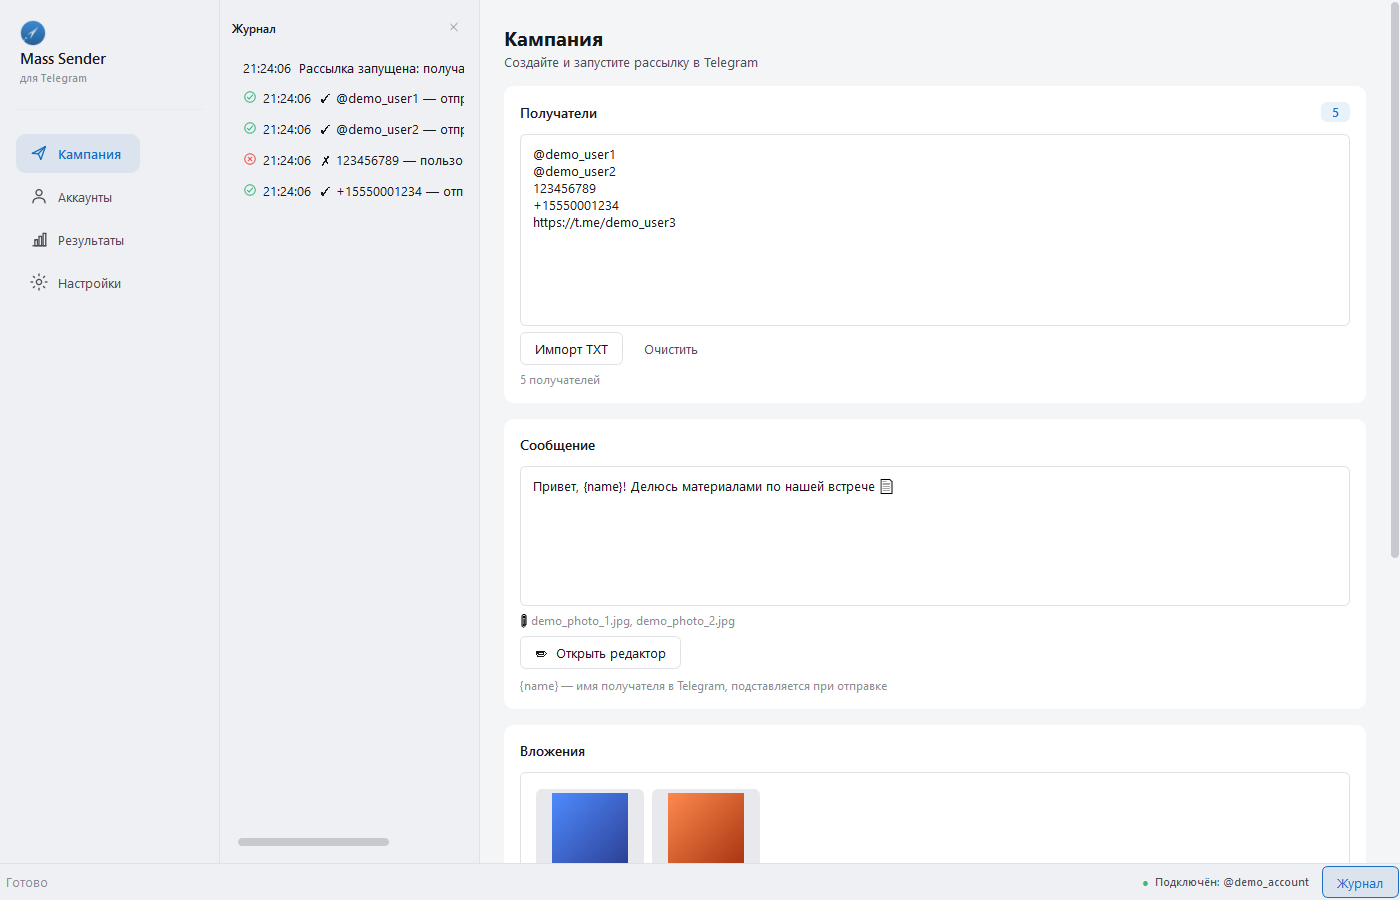
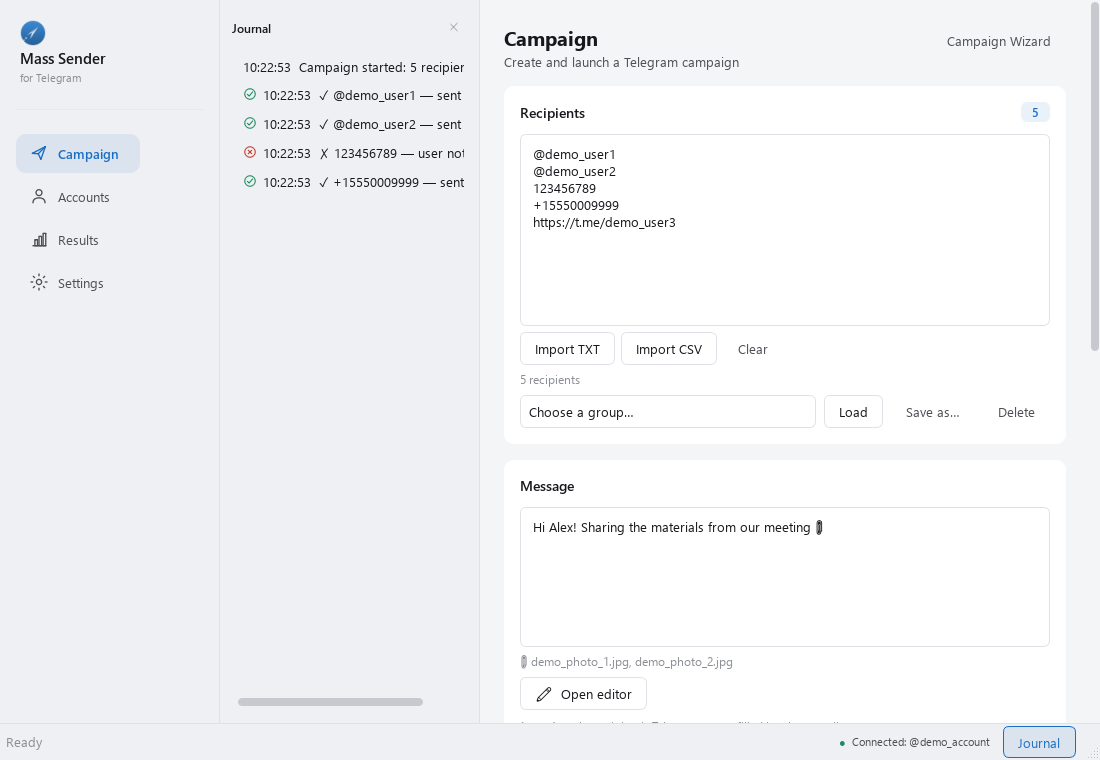
Rebuild portfolio screenshots and complete ROADMAP audit
All 6 docs/images/ screenshots were stale (dated before v1.8/v2.0's UI
changes: no rename button, no phone display, no Demo Mode, no language
selector) and in Russian despite English being the README's primary
language. Regenerated against the current UI, in English, using only
synthetic data (fake accounts/recipients/messages, generated
placeholder image attachments) -- never a real account or network
connection. Added a new demo-mode.png showcasing the feature added
this session. Each screenshot was individually reviewed for personal
data before committing.

Found and corrected a real methodology bug in the process: an earlier
verification pass (during Demo Mode's own work) had flagged what looked
like a genuine pre-existing rendering bug in the Accounts page's
"+ Add account" button, and a git-stash check against unmodified main
seemed to confirm it. Root-caused further while generating these
screenshots: it was an artifact of the verification script reusing one
asyncio event loop across multiple run_until_complete() calls, letting
tasks MainWindow.__init__/_enter_demo_mode() independently schedule via
their own asyncio.ensure_future() execute interleaved with the script's
own later calls -- something a real, single, persistent qasync loop
never does. Switching the script to one isolated event loop per call
(asyncio.run(), matching real app behavior) made the glitch disappear
completely, at the same settings that reproduced it moments before. The
[…]

diff --git a/ROADMAP.md b/ROADMAP.md
@@ -69,8 +69,10 @@ platform.
       languages) plus `tests/test_main_window_ux.py` (live language switch
       actually changes already-built widget text, persists across reload,
       and reset-settings doesn't silently flip it)
-- [ ] Create English portfolio screenshots — separate README/portfolio
-      task, not yet done
+- [x] Create English portfolio screenshots — all 6 of `docs/images/`'s
+      screenshots regenerated against the current UI, in English, with
+      only synthetic data (no real accounts/recipients/personal info);
+      see the release-candidate documentation stage for the full account
 
 ## Universal Attachments
 
@@ -947,19 +949,50 @@ previously-untested module).
 
 # Cross-cutting Engineering Goals
 
-- [ ] Maintain modular architecture
-- [ ] Keep UI independent from Telegram transport logic
-- [ ] Keep attachment abstraction generic
-- [ ] Preserve async/qasync architecture
-- [ ] Preserve UTF-16 Telegram entity correctness
-- [ ] Preserve Windows DPAPI credential protection
-- [ ] Preserve safe FloodWait handling
-- [ ] Preserve graceful shutdown
-- [ ] Preserve partial-send protection
-- [ ] Maintain strong regression test coverage
-- [ ] Keep application history intentionally limited
-- [ ] Avoid unnecessary database persistence
-- [ ] Avoid collecting sensitive user data
+These are ongoing properties of the codebase, not one-time deliverables
+-- checked here because each is currently true and verified (not because
+there's nothing left to watch), re-verified as part of this stage's
+audit rather than assumed to still hold from when each was first built:
+
+- [x] Maintain modular architecture — `app/ui`/`app/telegram`/`app/campaign`/
+      `app/recipients`/`app/security`/`app/config`/`app/database`/
+      `app/logging`/`app/i18n` stay separated by concern, per `CLAUDE.md`
+- [x] Keep UI independent from Telegram transport logic — `app/ui/*.py`
+      never imports Telethon directly; it goes through
+      `app/telegram/service.py`/`account_manager.py`/`client_manager.py`
+- [x] Keep attachment abstraction generic — `AttachmentKind` stays a
+      closed, extension-based classification table read by both
+      `media_sender.py` and the UI, not duplicated
+- [x] Preserve async/qasync architecture — every network call stays on
+      the shared qasync loop; nothing blocks the Qt event loop
+- [x] Preserve UTF-16 Telegram entity correctness — `template.py`/
+      `message_editor.py`/`message_preview.py` all still do entity-offset
+      math in surrogate-pair space
+- [x] Preserve Windows DPAPI credential protection — `app/security/dpapi.py`/
+      `secure_storage.py` unchanged; API ID/Hash still never touch plain
+      config, logs, or exception messages
+- [x] Preserve safe FloodWait handling — still waited out or cleanly
+      aborted everywhere it can occur (resolve and send alike), never
+      bypassed
+- [x] Preserve graceful shutdown — `MainWindow._perform_shutdown`/the
+      `close_event` mechanism (`tests/test_main_window_shutdown.py`)
+      unchanged
+- [x] Preserve partial-send protection — `next_step`-based resume in
+      `campaign_manager.py`/`media_sender.py` unchanged
+- [x] Maintain strong regression test coverage — 678 tests, 0 failures,
+      CI green (this stage alone added 86: 5 for the two attachment bug
+      fixes, 81 across v1.8/v2.0)
+- [x] Keep application history intentionally limited — presets/groups/
+      saved reports are still only ever created by an explicit user
+      action, never auto-logged
+- [x] Avoid unnecessary database persistence — the only new persisted
+      fields this stage (`accounts.local_alias`, `onboarding_completed`)
+      are both small, explicit, user-facing settings, not new implicit
+      history
+- [x] Avoid collecting sensitive user data — Demo Mode's simulated
+      recipients/results never touch a real network or real personal
+      data; nothing new here reads message contents or personal info
+      beyond what campaign sending already required
 
 ---
 
@@ -982,46 +1015,70 @@ Do NOT turn TelegramMassSender into:
 
 ---
 
-# Known Issues (flagged, not yet root-caused)
+# Known Issues
 
-- **Accounts page "+ Добавить аккаунт" button: partial text glitch after
-  the account list first populates, light theme only.** Found while
-  visually verifying Demo Mode (v2.0). Real, reproducible: the button's
-  leading `"+ До"` renders as a faint, misplaced fragment while the rest
-  of the label (`"бавить аккаунт"`) renders correctly, only after
-  `AccountWidget.set_accounts()` first adds a card (i.e. the page's
-  content height grows and the wrapping `QScrollArea` reflows) --
-  confirmed present on unmodified `main` (via `git stash`), so it
-  predates and is unrelated to any v2.0 work. Confirmed NOT reproducible
-  in three narrower contexts: `AccountWidget` alone (no `MainWindow`/
-  `QScrollArea`), the empty-account-list state, and dark theme with an
-  otherwise-identical script (though dark's accent color is close enough
-  to the light one that a subtle stale-pixel artifact could plausibly be
-  present but simply not visible against it -- not confirmed either way).
-  Tried and did not fix it: explicit `repaint()`/`update()` on the
-  button, the widget, the window, and the scroll area's viewport;
-  pre-applying the stylesheet before construction instead of relying on
-  `_apply_theme()`. The combination of "only after a dynamic relayout"
-  and "unfixed by explicit repaint calls" points at the offscreen QPA
-  platform's own software text rasterizer/paint-cache (used only by this
-  project's automated verification and CI, never by a real user) rather
-  than application code -- but this is not confirmed, since this sandbox
-  has no way to render on a real GPU-accelerated Windows display to rule
-  the app out conclusively. **Needs verification against the actual
-  packaged EXE on a real Windows desktop** (part of the release-candidate
-  build/smoke-test pass) before being dismissed as sandbox-only or
-  accepted as a real, fixable bug.
+None currently open. One issue was flagged, investigated, and retracted
+during this stage after finding its actual cause:
+
+- **Retracted: Accounts page "+ Add account" button partial-text
+  glitch.** Originally flagged as a possible real, pre-existing
+  rendering bug (reproducible via `window.grab()` after
+  `AccountWidget.set_accounts()` populated a card) and even seemed to
+  survive a `git stash` check against unmodified `main`. Root-caused
+  further: it was an artifact of the verification script itself, not
+  the app. The script reused one `asyncio` event loop across several
+  `loop.run_until_complete(...)` calls; `MainWindow.__init__` and
+  `_enter_demo_mode()` each independently schedule their own
+  `asyncio.ensure_future(self._refresh_accounts())`, and driving a
+  shared loop forward again later let those orphaned tasks execute
+  interleaved with the script's own explicit call, at some point
+  relative to Qt's paint queue that a real run never produces. Confirmed
+  directly: switching the same script to construct one isolated event
+  loop per call (`asyncio.run(...)`, matching how a real, single qasync
+  loop actually behaves for the lifetime of one app session) made the
+  glitch disappear completely, at the same window size/theme/language/
+  account count that reproduced it moments before. The earlier `git
+  stash` check "confirming" this on unmodified `main` used the same
+  flawed multi-call script both times, so it never actually ruled out
+  the script itself -- a reminder that a control run must vary only the
+  one thing being tested, not carry over an unexamined assumption from
+  the original repro.
 
 ---
 
 # Portfolio Goals
 
-- [ ] Keep README English-first
-- [ ] Keep Russian documentation available
-- [ ] Maintain English UI screenshots
-- [ ] Keep architecture diagram updated
-- [ ] Keep engineering highlights updated
-- [ ] Document major technical decisions
-- [ ] Keep CI green
-- [ ] Keep release artifacts reproducible
-- [ ] Maintain honest AI-assisted development disclosure
+Ongoing properties, re-verified as part of this stage rather than
+assumed to still hold:
+
+- [x] Keep README English-first — the English summary/features/screenshots/
+      architecture/highlights/testing/security sections stay first; the
+      full Russian user guide stays below them, unchanged in structure
+- [x] Keep Russian documentation available — unchanged, still complete
+- [x] Maintain English UI screenshots — all 6 of `docs/images/` were
+      stale (predated v1.8/v2.0's UI changes, and Russian rather than
+      English) and have been regenerated against the current UI in
+      English this stage, using only synthetic data
+- [x] Keep architecture diagram updated — the Mermaid diagram documents
+      layer boundaries (UI/orchestration/campaign/telegram/MTPROTO,
+      SQLite/DPAPI/config/CSV), which haven't structurally changed;
+      still accurate
+- [x] Keep engineering highlights updated — added the direction-dependent
+      drag-reorder bug and Demo Mode's duck-typed backend as two new
+      entries this stage
+- [x] Document major technical decisions — `CLAUDE.md` plus inline
+      comments at each real decision point (this stage: why Demo Mode
+      isn't shared code with the test mock, why onboarding can't run
+      from `__init__`, why the account-rename migration is generated
+      rather than a raw `ALTER TABLE`, why `SecureStorage` needed to
+      become injectable)
+- [x] Keep CI green — every commit this stage individually verified
+      green on GitHub Actions before moving to the next (one required a
+      follow-up fix: a test's `QSystemTrayIcon`-adjacent object-lifetime
+      issue that passed locally but crashed on the CI runner specifically)
+- [x] Keep release artifacts reproducible — `.github/workflows/release.yml`
+      builds from the same `.spec`/version-resource generation the manual
+      process uses, so an automated and a manual build of the same commit
+      produce the same artifact
+- [x] Maintain honest AI-assisted development disclosure — the top-of-README
+      disclosure line is unchanged and still accurate

diff --git a/README.md b/README.md
@@ -45,9 +45,9 @@ It supports multiple Telegram accounts, rich text formatting, media/album attach
 |---|---|
 | ![Accounts](docs/images/accounts.png) | ![Settings](docs/images/settings.png) |
 
-| Results & Journal |
-|---|
-| ![Results and Journal](docs/images/journal.png) |
+| Results & Journal | Demo Mode |
+|---|---|
+| ![Results and Journal](docs/images/journal.png) | ![Demo Mode](docs/images/demo-mode.png) |
 
 *All screenshots use synthetic demo data — no real Telegram accounts, recipients, or personal information.*
 
@@ -104,6 +104,8 @@ A few parts of this project involved real engineering problems, not just wiring 
 10. **One start path, three entry points.** The fast single-page workflow, the optional step-by-step Campaign Wizard, and failed-recipient Retry all funnel into the exact same validation/start method rather than each reimplementing it — a wizard or a retry can only ever start a campaign the same way the main "Start" button already does, so a fix or a safety check applied once covers all three.
 11. **Content-based CSV column detection.** CSV recipient import has no header-parsing or manual column-mapping step: each cell is tried against the same recipient-format recognizer the plain paste box already uses, so the first cell that looks like a username/ID/phone becomes that row's recipient regardless of column order, and another non-matching cell becomes that row's `{name}` value.
 12. **Automated regression testing** against a hand-built mock Telegram client, including reproduce-first regression tests for the bugs above.
+13. **A direction-dependent drag-reorder bug.** Attachment reordering looked fine in isolated tests but felt unreliable in practice: the same gesture — dropping one tile directly onto another — landed the dragged item *after* the target for a forward drag but *before* it for a backward drag, because the drop handler reused a stale, pre-drop row index as a raw insertion index. Reproduced and quantified by replaying every (source, target) pair over a small list (all of them showed the asymmetry), then fixed by re-locating the target by stable identity after the source is removed, making "drop on tile X" mean the same thing regardless of drag direction.
+14. **Demo Mode as a genuine duck-typed backend, not a mocked UI state.** `DemoTelegramClient` implements the same surface a real Telethon client does (entity resolution, message/album sending) with realistic random outcomes and zero network access — the real, unmodified `CampaignManager` runs an actual campaign against it, so Demo Mode exercises the same send/retry/results pipeline production traffic does, not a separate hand-faked code path.
 
 Ordinary parts — not oversold: the settings page is a straightforward form bound to a dataclass, SQLite access is plain parameterized `sqlite3`, and the CSV export itself is a standard `csv.writer`. None of that is architecturally novel; the value is in the items above.
 
